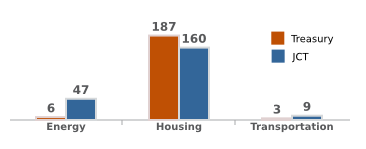
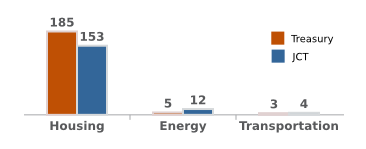
pted charts

Changed region(s): [[0.0301, 0.1074, 0.9617, 0.8859]]

diff --git a/bailout.site/trunk/charts/barchart.css b/bailout.site/trunk/charts/barchart.css
@@ -2,11 +2,11 @@
 
 .x-notch, .x-notch-left, .x-notch-right { stroke: #a7a9ac; }
 .x-axis-path { fill:none; stroke: #a7a9ac; stroke-width:1; stroke-linecap:butt; stroke-linejoin: miter; stroke-miterlimit:4; stroke-dasharray:none; stroke-opacity:1 }
-.series-0-point { stroke: #e0d1d1; fill: #bf5004; stroke-width: 2px; }
+.series-0-point { stroke: #e0d1d1; fill: #bf5004; stroke-width: 1px; }
 
-.series-1-point { stroke: #d6d9db; fill: #336699; stroke-width:2px; }
+.series-1-point { stroke: #d6d9db; fill: #336699; stroke-width: 1px; }
 
-.series-2-point { stroke: #eff5e6; fill: #9ca991; stroke-width: 2px; }
+.series-2-point { stroke: #eff5e6; fill: #9ca991; stroke-width: 1px; }
 
 
 .x-axis-label, .data-point-label {font-size: 12px; font-weight:bold; font-family: sans-serif; fill: #58595b; text-anchor:middle;}

diff --git a/bailout.site/trunk/charts/pted_graphs.py b/bailout.site/trunk/charts/pted_graphs.py
@@ -1,82 +1,82 @@
 from charty import Column, Line, Pie
 
-#treasury_jct_comparison = Column(400, 200, [[('Energy', 6440), 
-#				    ('Housing', 187640),
-#                    ('Transportation', 3690)],
-#				    [('Energy', 47140), 
-#				    ('Housing', 160920),
-#                    ('Transportation', 9480)]], "barchart.css", x_label_padding=10, x_label_height=50)
-#
-#treasury_jct_comparison. max_x_point_width=30
-#treasury_jct_comparison.output("../media/images/charts/pted/treasury_jct_comparison.svg")
+treasury_jct_comparison = Column(400, 200, [[('Housing', 185210),
+                    ('Energy', 5220),
+                    ('Transportation', 3690)],
+				    [('Housing', 153600),
+                    ('Energy', 12900), 
+                    ('Transportation', 4500)]], "barchart.css", x_label_padding=15, x_label_height=50,  x_padding=10)
+
+treasury_jct_comparison.max_x_point_width = 10
+treasury_jct_comparison.output("../media/images/charts/pted/treasury_jct_comparison.svg")
 
                                    
 
 
-energy_grants = Line(300, 200, [[(1982, 515.8),
-								(1983, 556.3),
-								(1984, 589.8),
-								(1985, 633.3),
-								(1986, 689.2),
-								(1987, 642.4),
-								(1988, 498.5),
-								(1989, 527.9),
-								(1990, 534.4),
-								(1991, 525.2),
-								(1992, 542.6),
-								(1993, 550.3),
-								(1994, 578.8),
-								(1995, 599.4),
-								(1996, 602.5),
-								(1997, 628.6),
-								(1998, 710.9),
-								(1999, 764.7),
-								(2000, 800.1),
-								(2001, 867.6),
-								(2002, 901.0),
-								(2003, 863.4),
-								(2004, 831.2),
-								(2005, 857.4),
-								(2006, 905.0),
-								(2007, 876.8),
-								(2008, 891.1),
-								(2009, 980.8)],
-								[(1982, 652.2),
-								(1983, 677.1),
-								(1984, 701.2),
-								(1985, 744.3),
-								(1986, 767.2),
-								(1987, 757.0),
-								(1988, 766.9),
-								(1989, 777.0),
-								(1990, 767.5),
-								(1991, 787.8),
-								(1992, 768.5),
-								(1993, 759.8),
-								(1994, 746.8),
-								(1995, 736.0),
-								(1996, 705.9),
-								(1997, 712.0),
-								(1998, 709.4),
-								(1999, 725.4),
-								(2000, 764.5),
-								(2001, 788.8),
-								(2002, 877.6),
-								(2003, 966.3),
-								(2004, 1022.2),
-								(2005, 1070.6),
-								(2006, 1086.7),
-								(2007, 1081.1),
-								(2008, 1151.9),
-								(2009, 1237.7)]], 'linechart.css', label_intervals=5, currency=False, x_padding=10, padding=10, units="")
-energy_grants.output('../media/images/charts/pted/historical_tes_vs_outlays.svg')
+#energy_grants = Line(300, 200, [[(1982, 515.8),
+#								(1983, 556.3),
+#								(1984, 589.8),
+#								(1985, 633.3),
+#								(1986, 689.2),
+#								(1987, 642.4),
+#								(1988, 498.5),
+#								(1989, 527.9),
+#								(1990, 534.4),
+#								(1991, 525.2),
+#								(1992, 542.6),
+#								(1993, 550.3),
+#								(1994, 578.8),
+#								(1995, 599.4),
+#								(1996, 602.5),
+#								(1997, 628.6),
+#								(1998, 710.9),
+#								(1999, 764.7),
+#								(2000, 800.1),
+#								(2001, 867.6),
+#								(2002, 901.0),
+#								(2003, 863.4),
+#								(2004, 831.2),
+#								(2005, 857.4),
+#								(2006, 905.0),
+#								(2007, 876.8),
+#								(2008, 891.1),
+#								(2009, 980.8)],
+#								[(1982, 652.2),
+#								(1983, 677.1),
+#								(1984, 701.2),
+#								(1985, 744.3),
+#								(1986, 767.2),
+#								(1987, 757.0),
+#								(1988, 766.9),
+#								(1989, 777.0),
+#								(1990, 767.5),
+#								(1991, 787.8),
+#								(1992, 768.5),
+#								(1993, 759.8),
+#								(1994, 746.8),
+#								(1995, 736.0),
+#								(1996, 705.9),
+#								(1997, 712.0),
+#								(1998, 709.4),
+#								(1999, 725.4),
+#								(2000, 764.5),
+#								(2001, 788.8),
+#								(2002, 877.6),
+#								(2003, 966.3),
+#								(2004, 1022.2),
+#								(2005, 1070.6),
+#								(2006, 1086.7),
+#								(2007, 1081.1),
+#								(2008, 1151.9),
+#								(2009, 1237.7)]], 'linechart.css', label_intervals=5, currency=False, x_padding=10, padding=10, units="", use_zero_minimum=True)
+#energy_grants.output('../media/images/charts/pted/historical_tes_vs_outlays.svg')
 
 
-energy_transportation_housing_as_percent_of_total = Pie(300, 300, [[('All Other Tax Expenditures', 786673), 
-                                             ('Energy', 5220), 
-                                             ('Housing', 185210), 
-                                             ('Transportation', 3690)]], 'piechart.css', y_padding=10, x_padding=10)
-energy_transportation_housing_as_percent_of_total.output("../media/images/charts/pted/energy_transportation_housing_as_percent_of_total.svg")
+#energy_transportation_housing_as_percent_of_total = Pie(300, 300, [[('All Other Tax Expenditures', 786673), 
+#                                             ('Energy', 5220), 
+#                                             ('Housing', 185210), 
+#                                             ('Transportation', 3690)]], 'piechart.css', y_padding=10, x_padding=10)
+#energy_transportation_housing_as_percent_of_total.output("../media/images/charts/pted/energy_transportation_housing_as_percent_of_total.svg")
 
 
 
